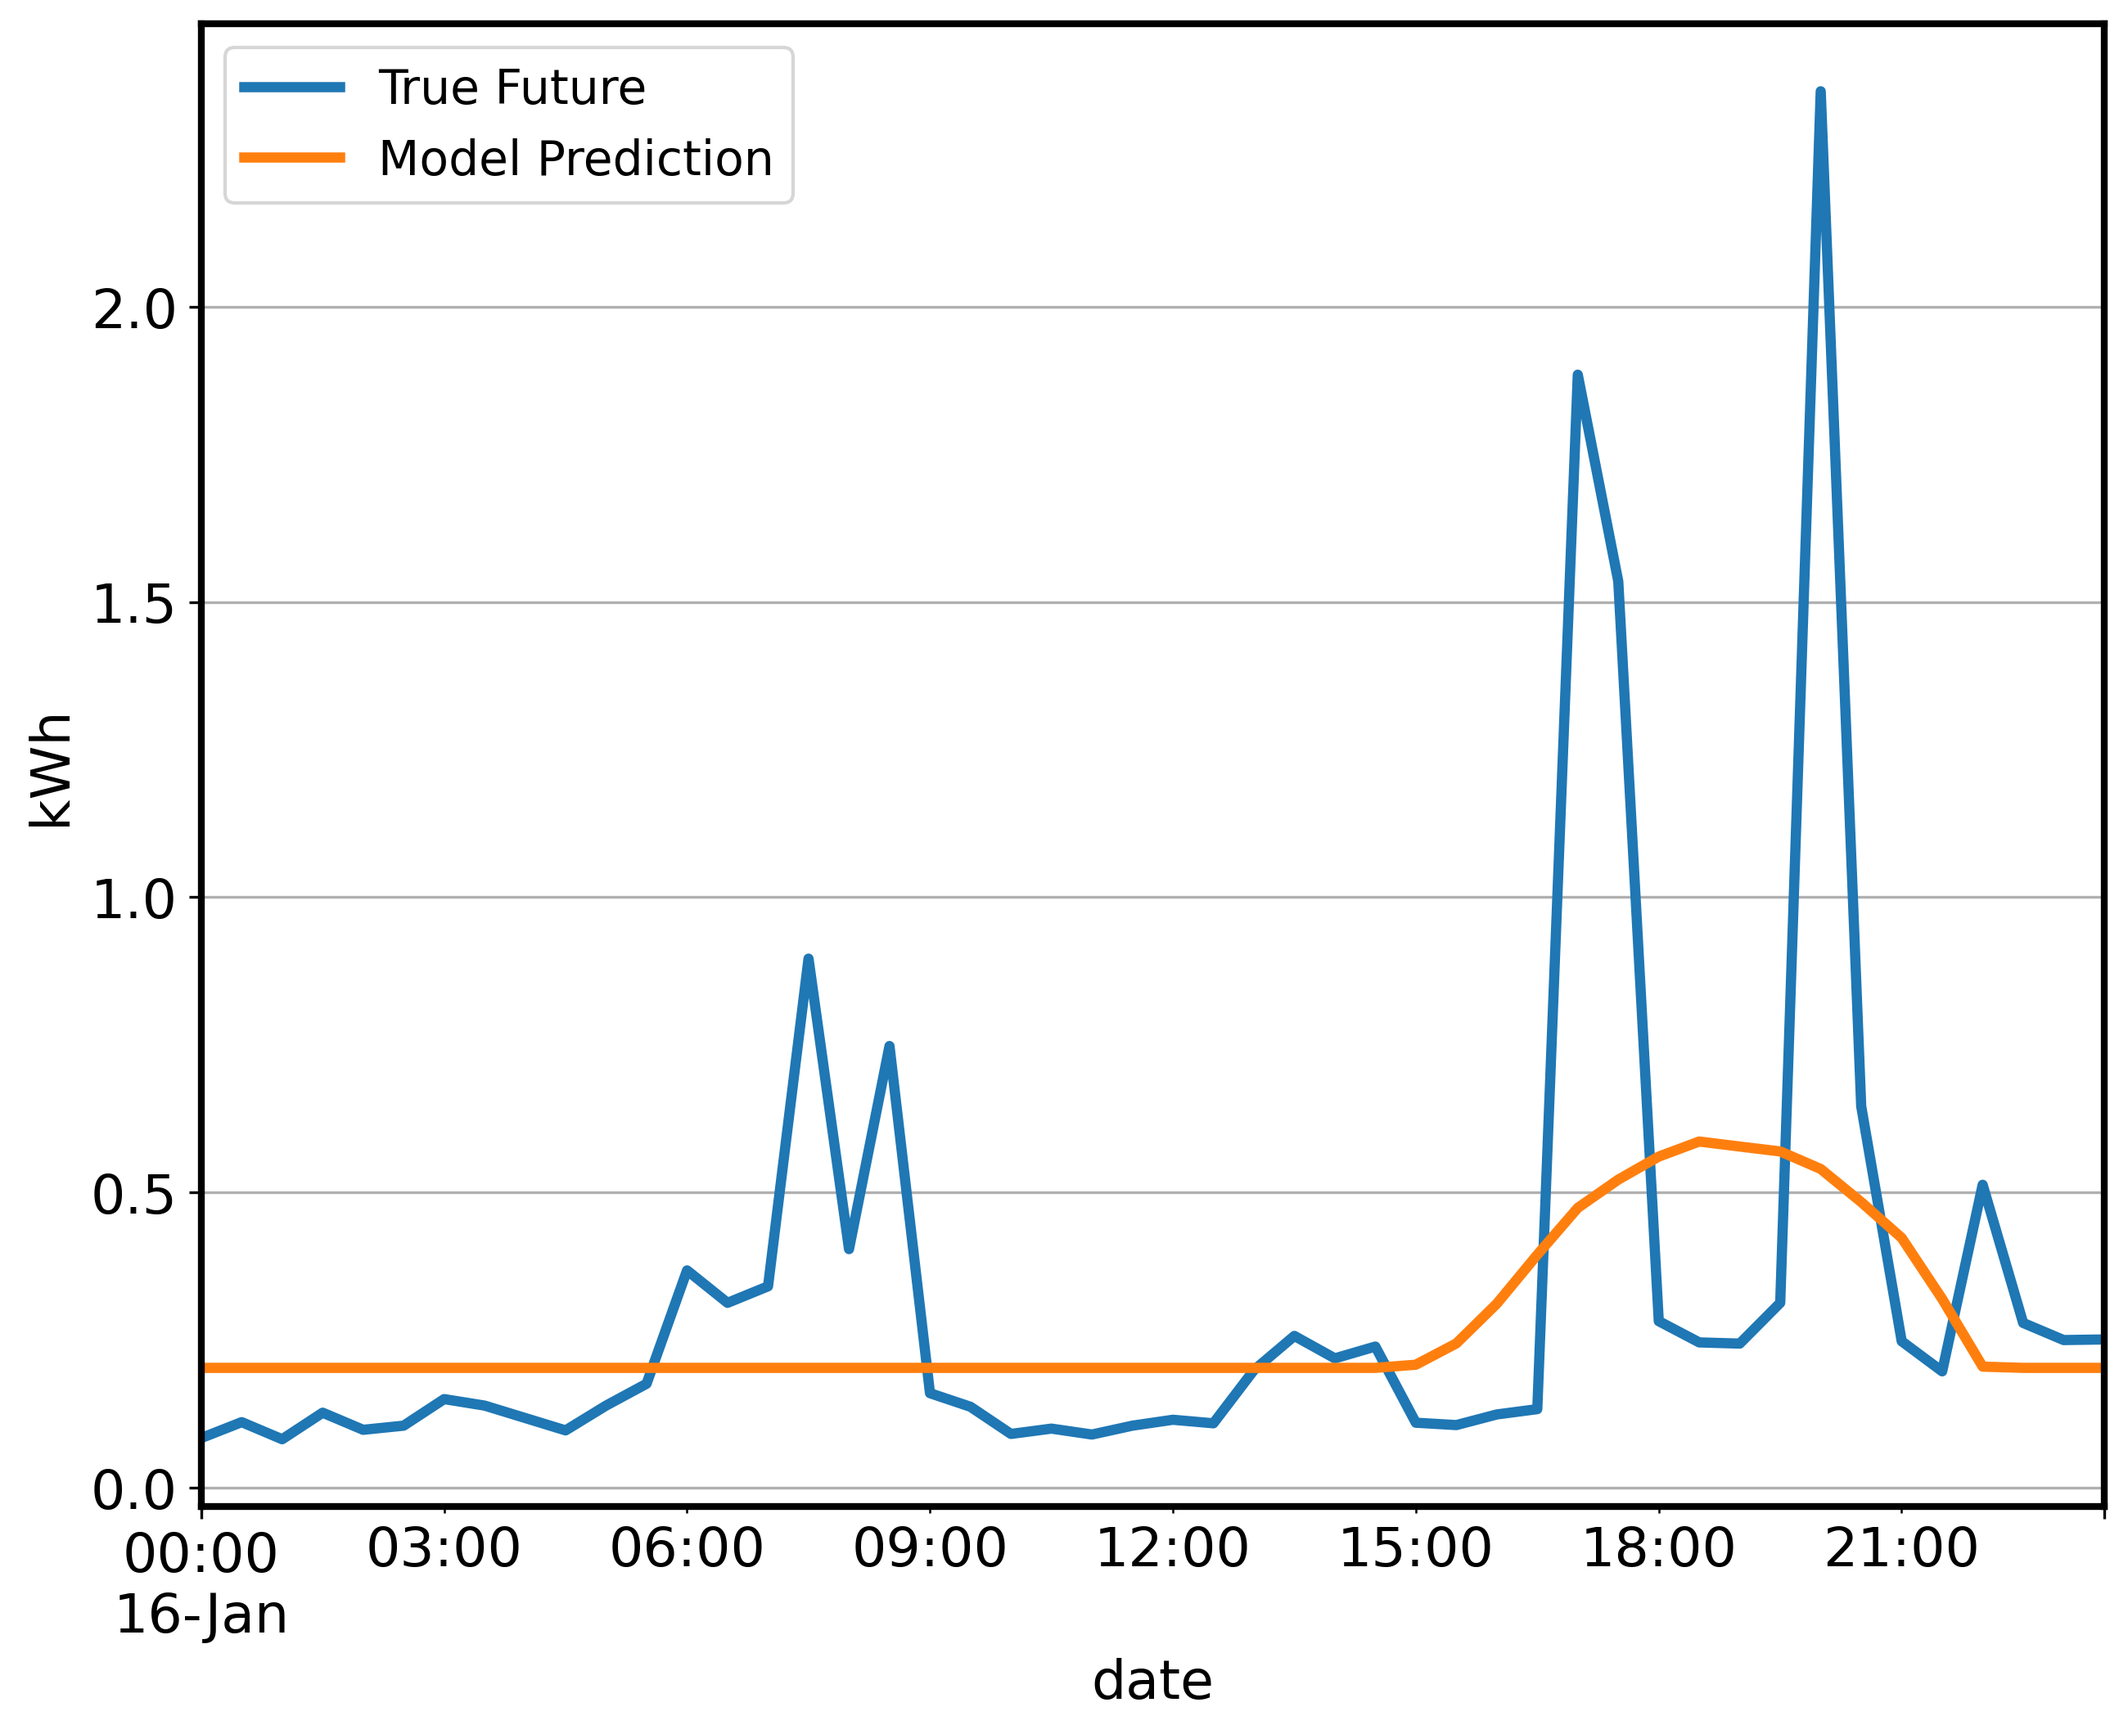
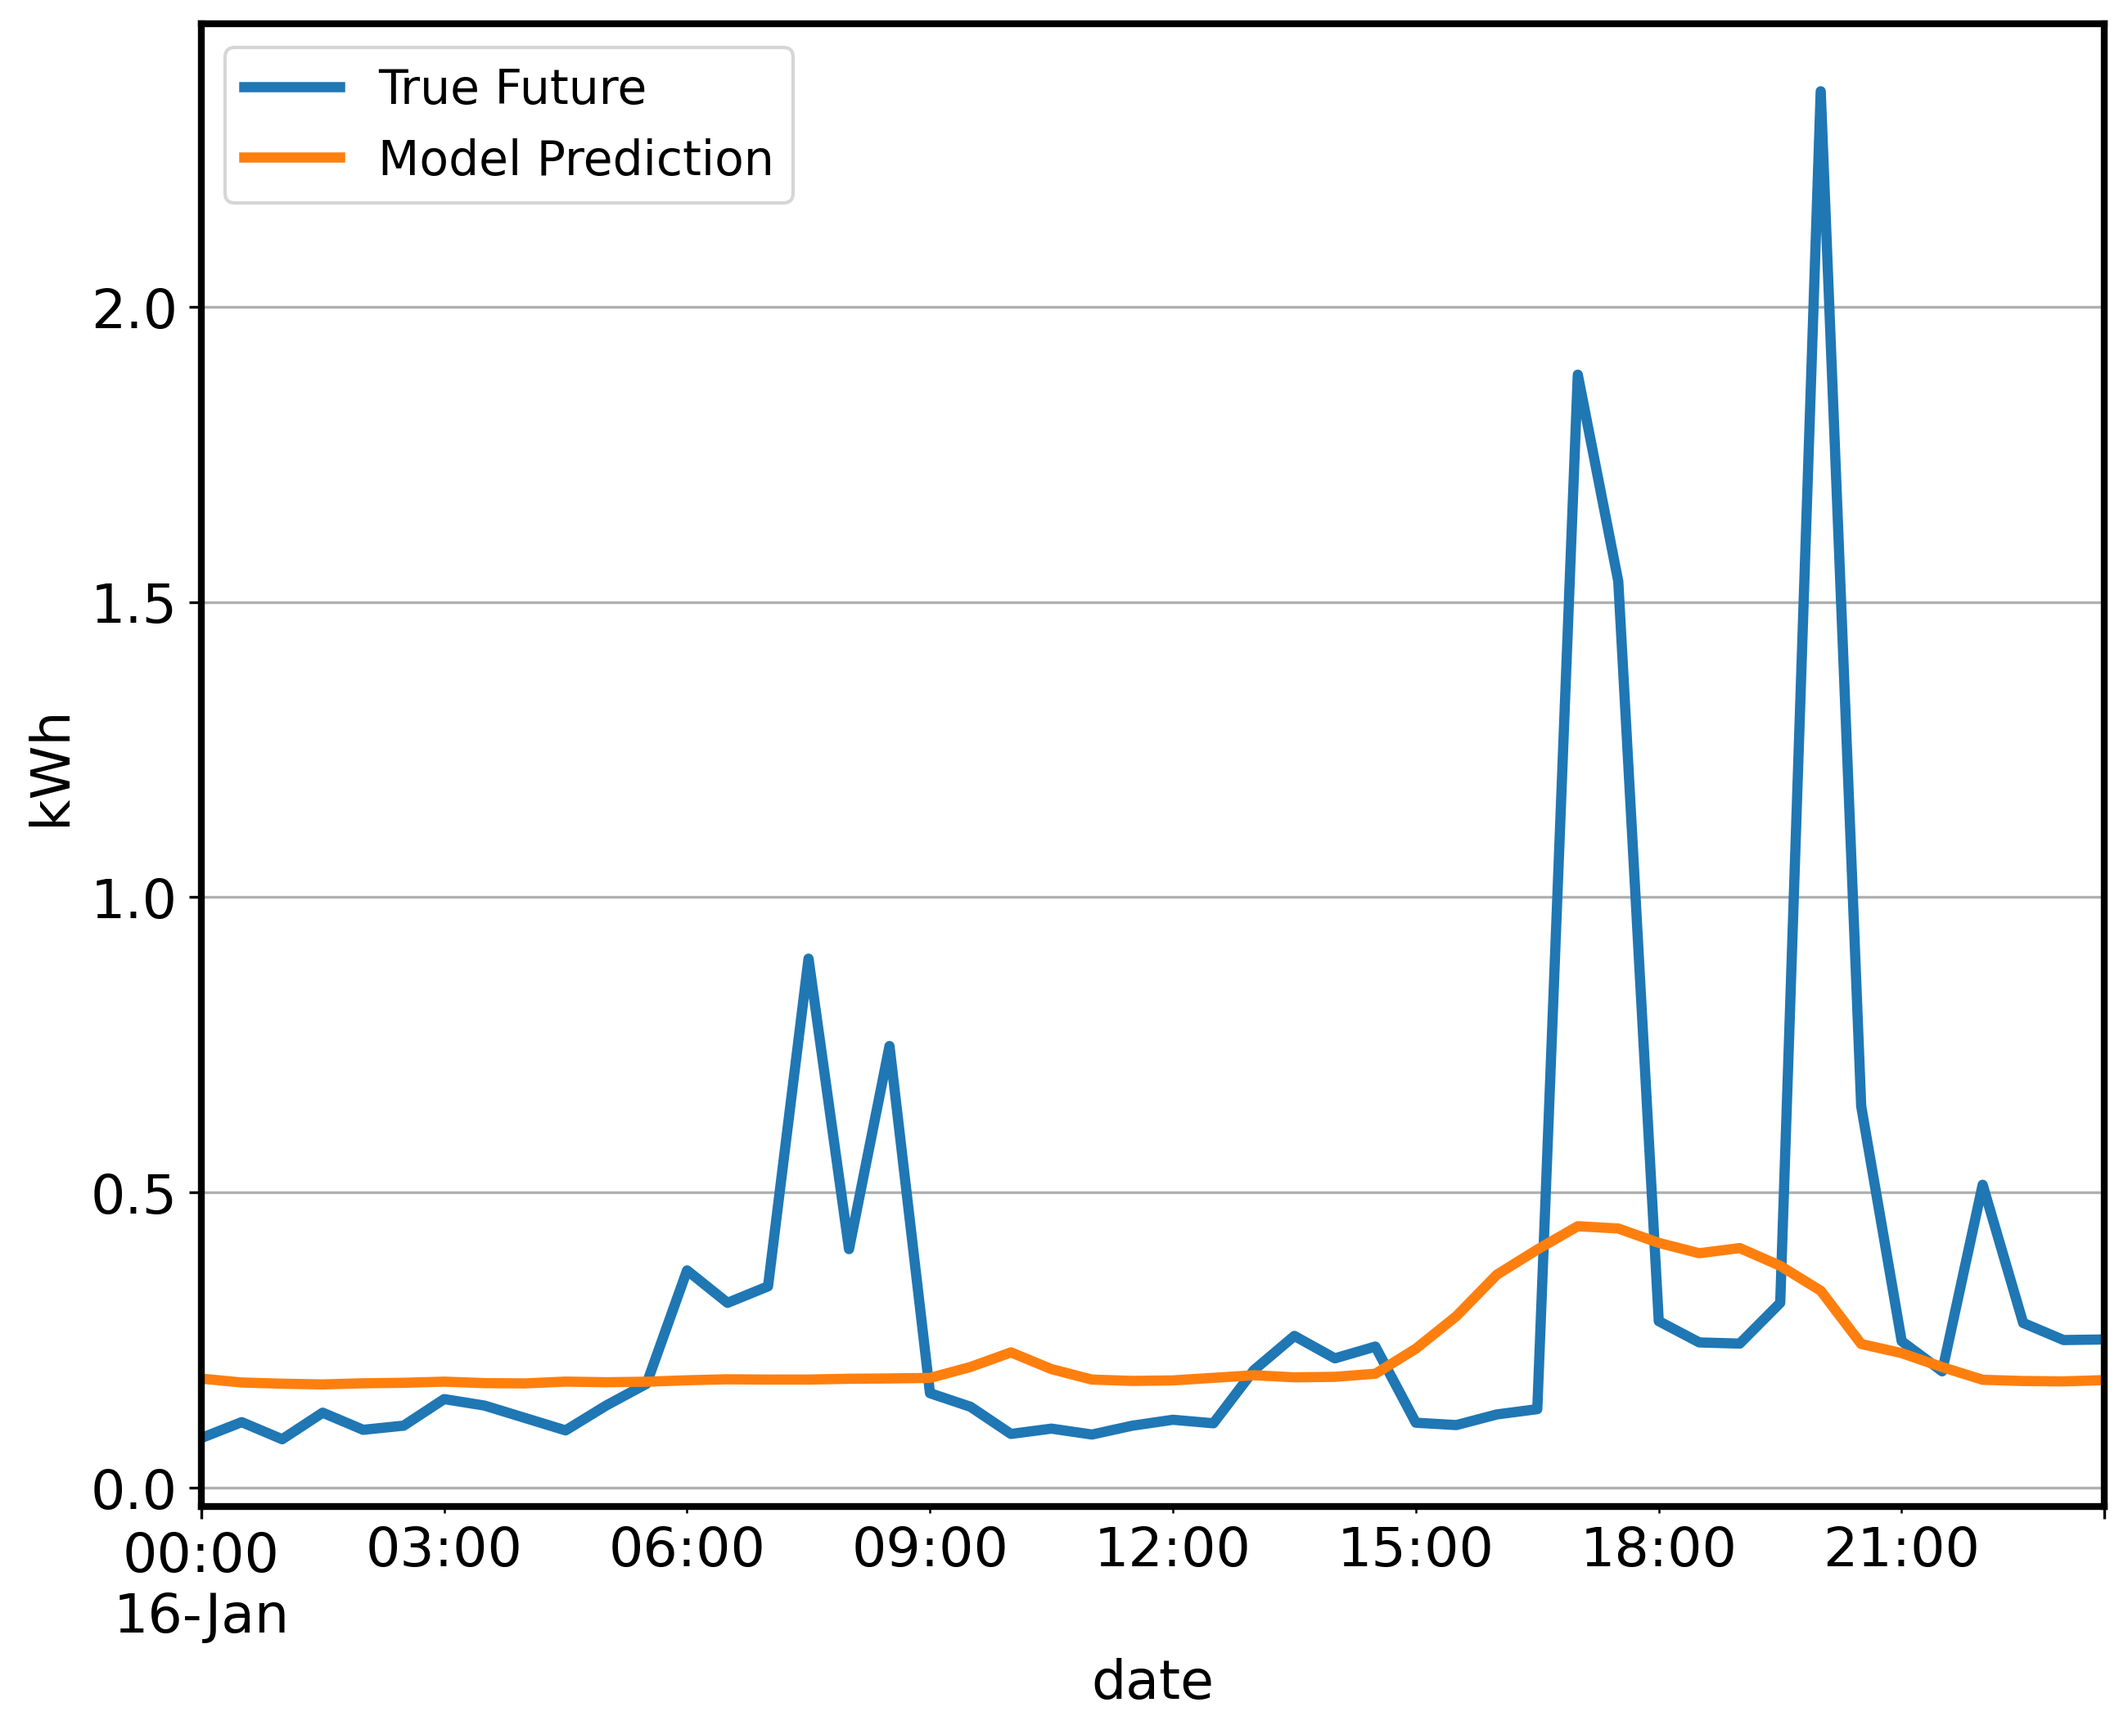
update

diff --git a/Forecasting/LSTM/forecasting_functions.py b/Forecasting/LSTM/forecasting_functions.py
@@ -16,7 +16,7 @@ from Test_basemodel_functions import Switcher
 
 class forecast_setting:
 
-    def __init__(self, units_LSTM = 20, layers_LSTM = 1, units_dense = 20, layers_DENSE= 1, patience = 5,
+    def __init__(self, units_LSTM = 20, layers_LSTM = 1, units_DENSE = 20, layers_DENSE= 1, patience = 5,
                  shuffle = False, lag_value = 3, nb_epoch = 1, batch_size_para = 32,
                  repeat = 10, activation: str = 'tanh', learning_rate: float = 0.001, dropout_LSTM = 0, recurrent_dropout_LSTM = 0, kernel_regularizer_LSTM = None,
                  recurrent_regularizer_LSTM = None, bais_regularizer_LSTM = None, activity_regularizer_LSTM = None, dropout_DENSE = 0,
@@ -26,7 +26,7 @@ class forecast_setting:
         self.nb_epoch = nb_epoch
         self.batch_size_parameter = batch_size_para
         self.units_LSTM = units_LSTM
-        self.units_dense = units_dense
+        self.units_DENSE = units_DENSE
         self.repeat = repeat
         self.evaluation_frame = pd.DataFrame()
         self.activation = activation
@@ -70,7 +70,8 @@ class forecast_setting:
         else:
             self.activity_regularizer_DENSE = None
 
-            # def set_evaluation:
+    def __str__(self):
+        print([])
 
 
 class time_serie:
@@ -150,15 +151,12 @@ def generate_training_validation_division(data: np.ndarray, reference: np.array,
         return (training, training_ref), (validation, validation_ref)
 
 
-# maybe better to use the relu function instead of tanh.
-# data is between 0 and one
+
 def build_model_stateless1(setting: forecast_setting, X, y, X_val, y_val, verbose_para: int = 1, save: bool = False):
 
     history = History()
-    optimizers.Adam(learning_rate=setting.learning_rate)
     model = Sequential()
     # no initial state is given --> hidden state and cell state are tensors filled with zeros
-    # weight matrix is and the 
 
     if setting.layers_LSTM == 1:
         model.add(LSTM(units=setting.units_LSTM, activation=setting.activation, kernel_regularizer= setting.kernel_regularizer_LSTM, recurrent_regularizer= setting.recurrent_regularizer_LSTM, bias_regularizer=setting.bais_regularizer_LSTM, dropout= setting.dropout_LSTM, recurrent_dropout= setting.recurrent_dropout_LSTM, activity_regularizer= setting.activity_regularizer_LSTM,batch_input_shape=(None, X.shape[1], X.shape[2])))  # no need to specify the batch size when stateless
@@ -170,7 +168,7 @@ def build_model_stateless1(setting: forecast_setting, X, y, X_val, y_val, verbos
 
     for _ in range(setting.layers_DENSE):
         model.add(Dropout(setting.dropout_DENSE))
-        model.add(Dense(units=setting.units_dense,activation='relu', kernel_regularizer=setting.kernel_regularizer_DENSE, bias_regularizer= setting.bais_regularizer_DENSE, activity_regularizer= setting.activity_regularizer_DENSE))
+        model.add(Dense(units=setting.units_DENSE,activation='relu', kernel_regularizer=setting.kernel_regularizer_DENSE, bias_regularizer= setting.bais_regularizer_DENSE, activity_regularizer= setting.activity_regularizer_DENSE))
     model.add(Dropout(setting.dropout_DENSE))
     model.add(Dense(units=y.shape[1],activation='relu', kernel_regularizer=setting.kernel_regularizer_DENSE, bias_regularizer= setting.bais_regularizer_DENSE, activity_regularizer= setting.activity_regularizer_DENSE))
     model.compile(optimizer=optimizers.Adam(learning_rate=setting.learning_rate, beta_1=0.9, beta_2=0.999),loss='mse')
@@ -209,9 +207,9 @@ def build_model_stateful1(setting: forecast_setting, X, y, X_val, y_val, verbose
 
         for _ in range(setting.layers_DENSE):
             model.add(Dropout(setting.dropout_DENSE))
-            model.add(Dense(units=setting.units_dense, activation='relu', kernel_regularizer=setting.kernel_regularizer_DENSE, bias_regularizer= setting.bais_regularizer_DENSE, activity_regularizer= setting.activity_regularizer_DENSE))
+            model.add(Dense(units=setting.units_DENSE, activation='relu', kernel_regularizer=setting.kernel_regularizer_DENSE, bias_regularizer= setting.bais_regularizer_DENSE, activity_regularizer= setting.activity_regularizer_DENSE))
         model.add(Dropout(setting.dropout_DENSE))
-        model.add(Dense(units=y.shape[1], activation='relu', kernel_regularizer=setting.kernel_regularizer_DENSE, bias_regularizer= setting.bais_regularizer_DENSE, activity_regularizer= setting.activity_regularizer_DENSE))
+        model.add(Dense(units=y.shape[1], activation='relu', kernel_regularizer= setting.kernel_regularizer_DENSE, bias_regularizer= setting.bais_regularizer_DENSE, activity_regularizer= setting.activity_regularizer_DENSE))
         model.compile(optimizer=optimizers.Adam(learning_rate=setting.learning_rate, beta_1=0.9, beta_2=0.999),loss='mse')
         early_stopping_monitor = EarlyStopping(patience=setting.patience,restore_best_weights=True)
         if i == 0:
@@ -238,6 +236,69 @@ def build_model_stateful1(setting: forecast_setting, X, y, X_val, y_val, verbose
     history.history['loss'] = loss
     history.history['val_loss'] = val_loss
 
+    # save the trained_model
+    if save:
+        file_path = "model.h5"
+        save_model(model,file_path)
+
+    return model,history
+
+
+def build_model_stateful1_old(setting: forecast_setting, X, y, X_val, y_val, verbose_para: int = 1, save: bool = False, reset_after_epoch: bool = True):
+
+    history = History()
+
+    model = None
+    weights = None
+    loss = []
+    val_loss = []
+    tracking = [np.inf]
+    for i in range(2):
+        if i == 0:
+            batch_size = setting.batch_size_parameter
+        else:
+            batch_size = 1
+        model = Sequential()
+        # dropout=None,recurrent_dropout=None
+        if setting.layers_LSTM == 1:
+            model.add(LSTM(units=setting.units_LSTM, activation=setting.activation, stateful= True, batch_input_shape=(batch_size, X.shape[1], X.shape[2])))  # no need to specify the batch size when stateless
+        else:
+            model.add(LSTM(units=setting.units_LSTM, activation=setting.activation, stateful= True, return_sequences=True, batch_input_shape=(batch_size, X.shape[1], X.shape[2])))
+            for _ in np.arange(1, setting.layers_LSTM - 1):
+
+                model.add(LSTM(units=setting.units_LSTM, activation=setting.activation, stateful= True, return_sequences=True))
+            model.add(LSTM(units=setting.units_LSTM, activation=setting.activation, stateful= True))
+
+        for _ in range(setting.layers_DENSE):
+            model.add(Dropout(setting.dropout_DENSE))
+            model.add(Dense(units=setting.units_DENSE, activation='relu', kernel_regularizer='l2',bias_regularizer=setting.bais_regularizer_DENSE,activity_regularizer=setting.activity_regularizer_DENSE))
+        model.add(Dropout(setting.dropout_DENSE))
+        model.add(Dense(units=y.shape[1], activation='relu', kernel_regularizer='l2',bias_regularizer=setting.bais_regularizer_DENSE,activity_regularizer=setting.activity_regularizer_DENSE))
+        model.compile(optimizer=optimizers.Adam(learning_rate=setting.learning_rate, beta_1=0.9, beta_2=0.999),loss='mse')
+        early_stopping_monitor = EarlyStopping(patience=setting.patience,restore_best_weights=True)
+        if i == 0:
+            for k in range(setting.nb_epoch):
+                model.fit(x=X,y=y,epochs=1,shuffle= setting.shuffle, batch_size=setting.batch_size_parameter,validation_data=(X_val,y_val),callbacks=[early_stopping_monitor,history],verbose=verbose_para)
+                epoch_count = k+1
+                print("Epoch number: %s/%s."%(epoch_count,setting.nb_epoch))
+                loss.append(history.history['loss'][0])
+                current_val_lost = history.history['val_loss'][0]
+                val_loss.append(current_val_lost)
+
+                if current_val_lost < tracking[0]:
+                    weights = model.get_weights()
+                    tracking = [current_val_lost]
+                else:
+                    tracking.append(current_val_lost)
+                    if len(tracking) == setting.patience + 1:
+                        break
+                if reset_after_epoch:
+                    model.reset_states()
+        else:
+            # Now the batch size is changed to one
+            model.set_weights(weights)
+    history.history['loss'] = loss
+    history.history['val_loss'] = val_loss
     # save the trained_model
     if save:
         file_path = "model.h5"
